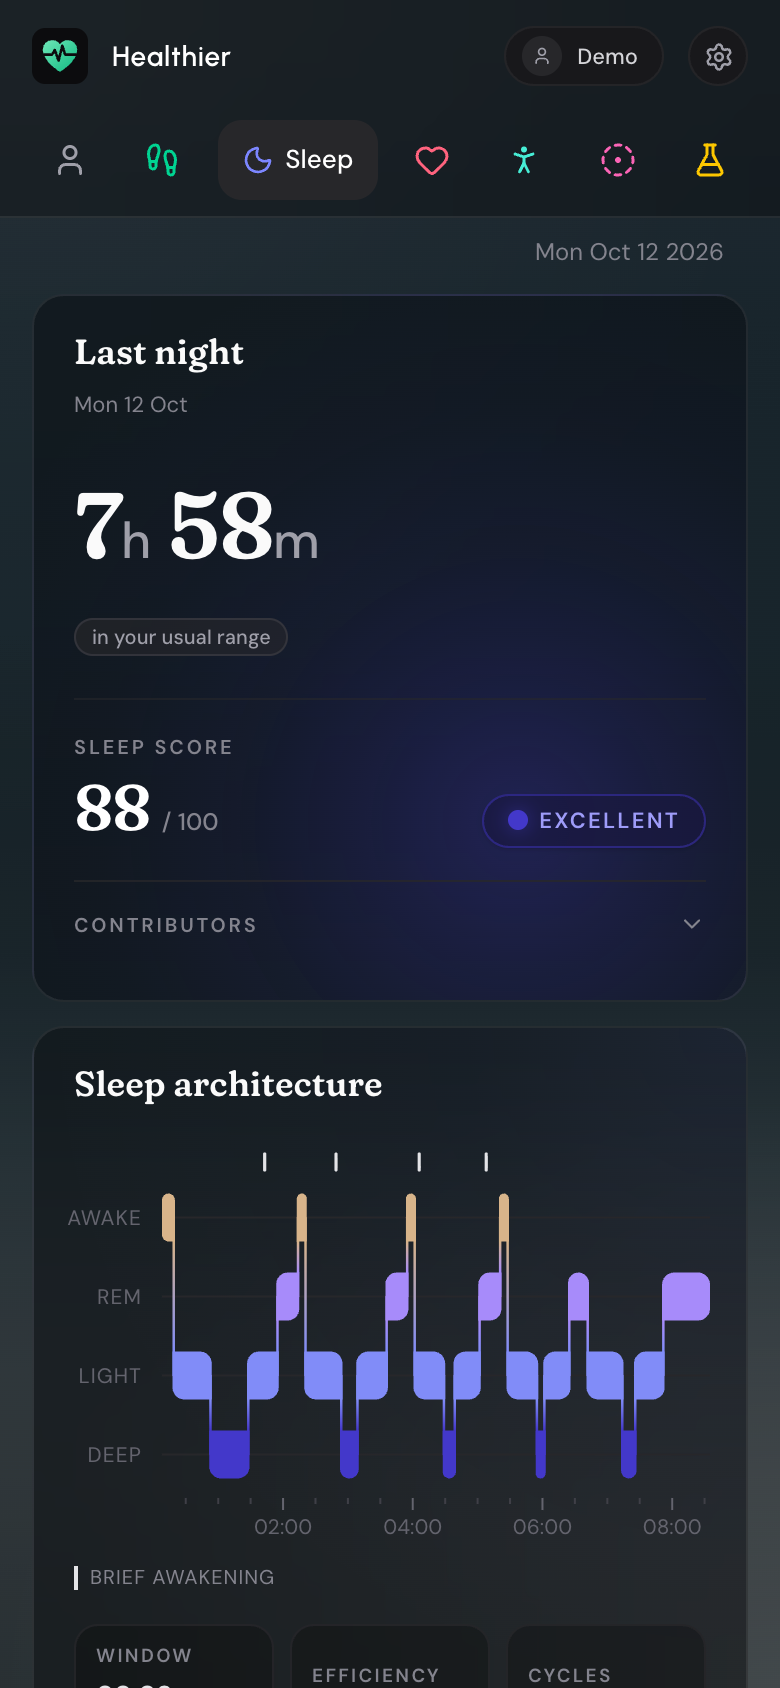
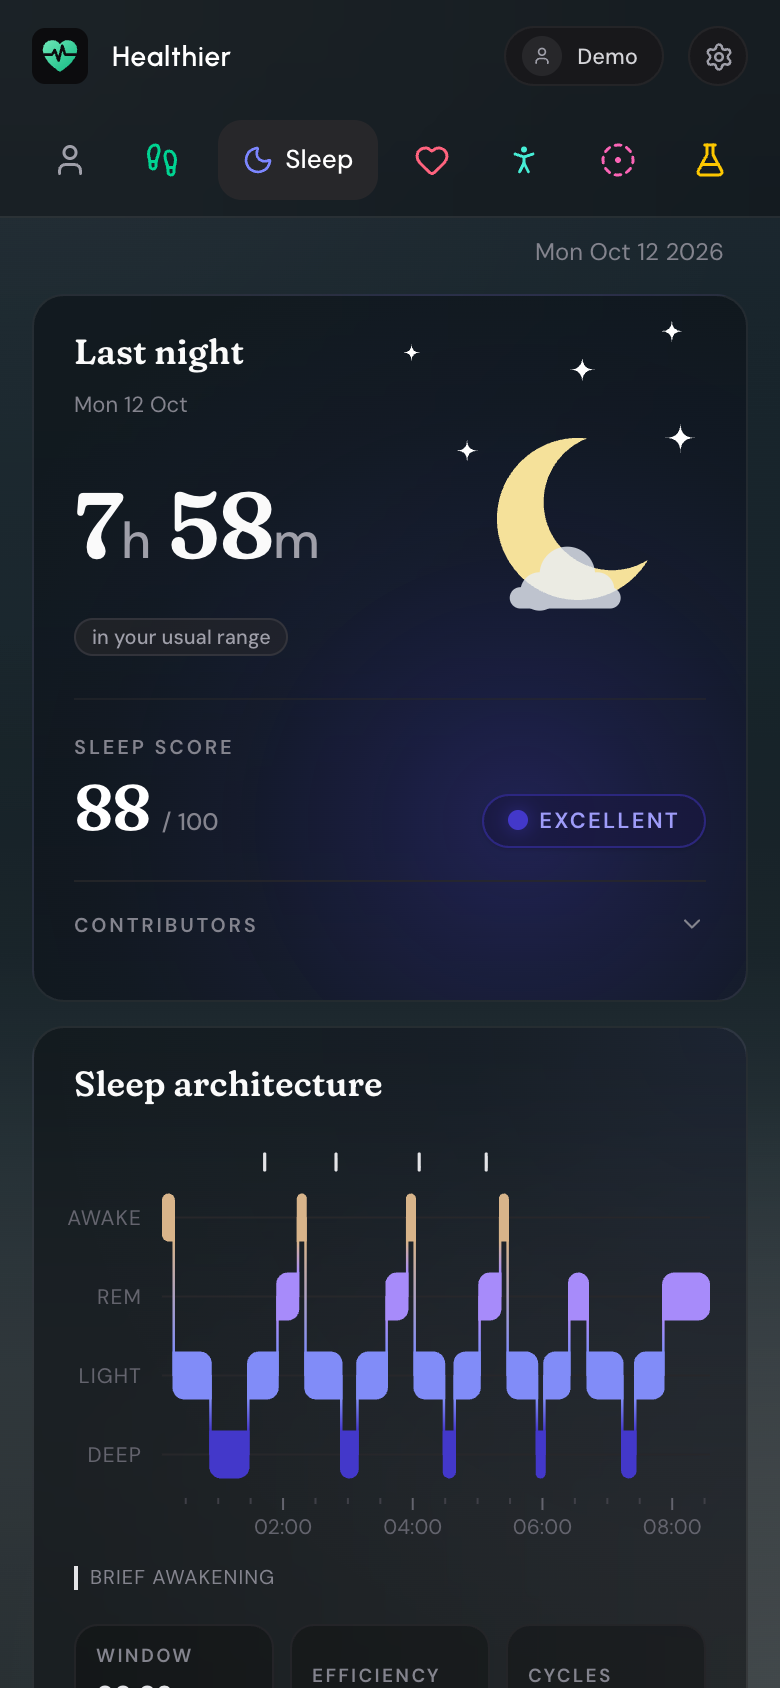
Sleep: a moon with a cloud and stars beside last night's length (#140)
## What and why

A little fun on the Sleep page: the Last night card gets a small drawing
beside the night's length, a crescent moon with a cloud across its foot
and five stars spread above and beside it.

The drawing is centred on the duration's line and reaches up toward the
top of the card without moving anything. Beside a long night on a narrow
card it shrinks, so it never runs into the numbers. The stars twinkle
very slowly and faintly, and stay still for anyone who has reduced
motion turned on. In the light theme the moon is a deeper yellow and the
cloud and stars a soft indigo, so they show on white.

The README's Sleep screenshots are retaken to show it.

## Checklist

- [x] `npm run typecheck` and `npm test` pass
- [x] Words on screen come from `src/locales/en-US.json`, not the code
- [x] New or changed insight cards and labs read as plain sentences,
make no medical claims, and cite their evidence
- [x] Changes to normalisation (`registry.ts`, `normalize.ts`, sleep
parsing) bump `PIPELINE_VERSION`
- [x] Database changes are a new migration in `server/db.ts`, not an
edit to an existing one
- [x] New settings are documented in `.env.example` and the README
- [x] Screenshots of visible changes come from demo mode, never real
health data

Changed region(s): [[0.6154, 0.2464, 0.8, 0.3697], [0.8615, 0.2464, 0.8923, 0.2773]]

diff --git a/src/views/SleepCards.tsx b/src/views/SleepCards.tsx
@@ -8,6 +8,39 @@ import { Card, CardHead, DURATION_UNIT, Delta, Row, fmtDuration, tint, withUnits
 import type { DailyRecord, SleepSession } from '../types/health';
 import { Stat, statUnit } from './ActivityCards';
 
+/** A four-pointed star, centred on (x, y), `r` from the centre to each point. */
+const sparkle = (x: number, y: number, r: number) =>
+  `M${x} ${y - r}Q${x} ${y} ${x + r} ${y}Q${x} ${y} ${x} ${y + r}Q${x} ${y} ${x - r} ${y}Q${x} ${y} ${x} ${y - r}Z`;
+
+/**
+ * A crescent moon with a cloud and stars, beside the night's length on the Last night card: decoration
+ * only, in its own colours (--night-*). The stars twinkle very slowly and faintly, one after another,
+ * unless motion is reduced.
+ */
+export function NightSky({ className = '' }: { className?: string }) {
+  // Spread over the sky beside and above the moon, never below it. Those above the drawing's box reach
+  // up toward the top of the card, right of its title, so the drawing lets them show outside its box.
+  const stars: [number, number, number][] = [
+    [-18, -26, 4], [62, -18, 6], [104, -36, 5], [8, 20, 5], [108, 14, 7],
+  ];
+  return (
+    <svg viewBox="0 0 120 110" aria-hidden="true" className={`pointer-events-none overflow-visible ${className}`}>
+      {/* The moon: a circle with a smaller one taken out of its right side. */}
+      <path d="M64.25 14.25A38 38 0 1 0 92.75 71.25A32 32 0 1 1 64.25 14.25Z" className="fill-(--night-moon)" />
+      {stars.map(([x, y, r], i) => (
+        <path key={i} d={sparkle(x, y, r)} className="twinkle fill-(--night-star)" style={{ animationDelay: `${i * 1.6}s` }} />
+      ))}
+      {/* One cloud across the foot of the moon, a little see-through, faded as a whole so its puffs don't show their overlaps. */}
+      <g className="fill-(--night-cloud)" opacity={0.8}>
+        <circle cx={42} cy={86} r={9} />
+        <circle cx={55} cy={78} r={13} />
+        <circle cx={69} cy={85} r={8} />
+        <rect x={28} y={84} width={52} height={10} rx={5} />
+      </g>
+    </svg>
+  );
+}
+
 type Stage = 'deep' | 'rem' | 'light' | 'awake';
 
 /**

diff --git a/src/views/SleepView.tsx b/src/views/SleepView.tsx
@@ -18,7 +18,7 @@ import type { IntradayDays } from '../pipeline/labs';
 import { groupSeries } from '../pipeline/aggregate';
 import type { SyncResult } from '../pipeline/sync';
 import type { DailyRecord, SleepSession } from '../types/health';
-import { LastSevenNights, Naps, getScoreTier } from './SleepCards';
+import { LastSevenNights, NightSky, Naps, getScoreTier } from './SleepCards';
 
 type SleepChart = 'window' | 'duration' | 'rem' | 'deep' | 'naps';
 
@@ -143,8 +143,15 @@ export function SleepView({ data, clock, intraday }: { data: SyncResult; clock?:
             hint={latestRow ? formatCivilLong(latestRow.date) : ''}
           />
           <div className="px-5 pb-4 flex-1 flex flex-col">
-            <div className="mt-1">
-              <Value value={latest ? fmtDuration(latest.minutesAsleep) : null} size="xl" />
+            {/*
+              The night's length with a moon among stars on the same line, centred on its numbers. The
+              drawing reaches above and below the line without moving anything, and shrinks beside a long night.
+            */}
+            <div className="mt-1 flex items-center justify-between gap-2">
+              <div className="shrink-0">
+                <Value value={latest ? fmtDuration(latest.minutesAsleep) : null} size="xl" />
+              </div>
+              <NightSky className="w-[128px] min-w-[88px] shrink aspect-[120/110] h-auto -my-6" />
             </div>
             <div className="mt-2 mb-4"><BandPill c={sleepCmp} /></div>
 

diff --git a/src/theme.css b/src/theme.css
@@ -75,6 +75,10 @@
   --stage-awake: #d8b48a;
   /* Deep for words, such as a best night's score: a step lighter, so it reads on the dark cards. */
   --stage-deep-ink: #7471f6;
+  /* The moon, clouds and stars in the Last night card's corner. */
+  --night-moon: #f5e19a;
+  --night-cloud: #e8edf5;
+  --night-star: #ffffff;
 
   /*
    * Glass. In dark a card is smoked glass, a dark tint with a light edge, and the panels and rules
@@ -268,6 +272,10 @@
   --stage-rem: #7c3aed;
   --stage-awake: #8a6a3f;
   --stage-deep-ink: var(--stage-deep);
+  /* On white, the moon is a deeper yellow, the clouds a pale indigo and the stars a soft indigo. */
+  --night-moon: #fcd34d;
+  --night-cloud: #e0e7ff;
+  --night-star: #a5b4fc;
 
   /* Plain white cards with a hairline edge; panels and rules are a shade of grey on them. */
   --card: #ffffff;
@@ -341,6 +349,20 @@ body::before {
 }
 :root[data-theme='light'] :is(.glow, .glow-score) {
   background-image: none;
+}
+
+/* A star that very slowly, faintly dims and brightens (the Last night card's sky); still when motion is reduced. */
+.twinkle {
+  transform-box: fill-box;
+  transform-origin: center;
+  animation: twinkle 8s ease-in-out infinite;
+}
+@keyframes twinkle {
+  0%, 100% { opacity: 1; transform: scale(1); }
+  50% { opacity: 0.65; transform: scale(0.9); }
+}
+@media (prefers-reduced-motion: reduce) {
+  .twinkle { animation: none; }
 }
 
 /*
